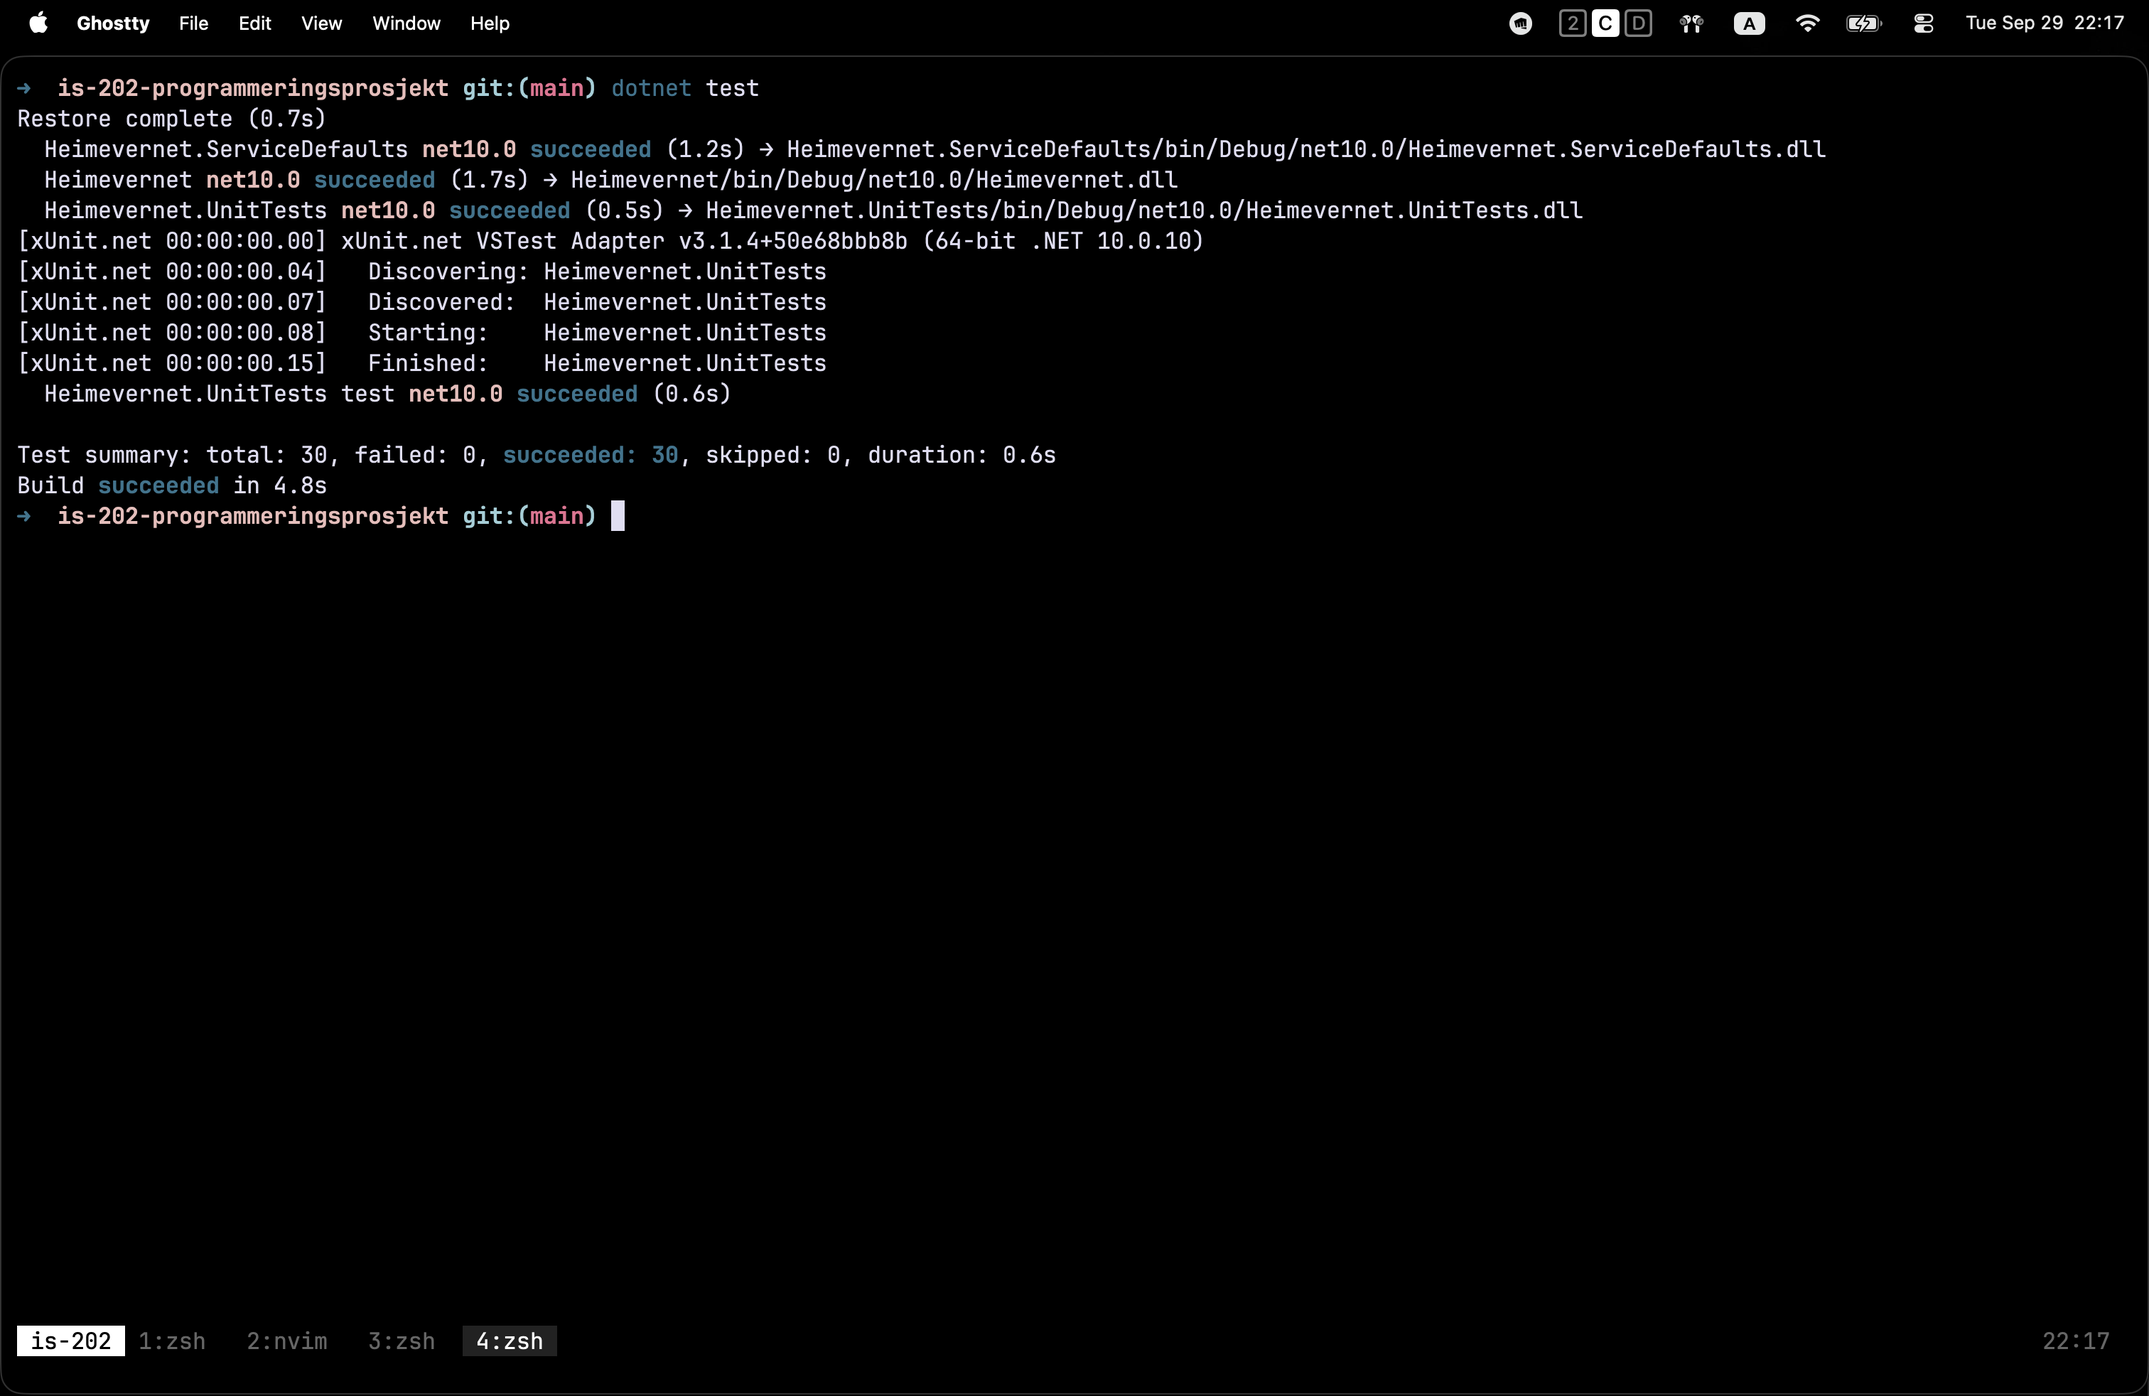
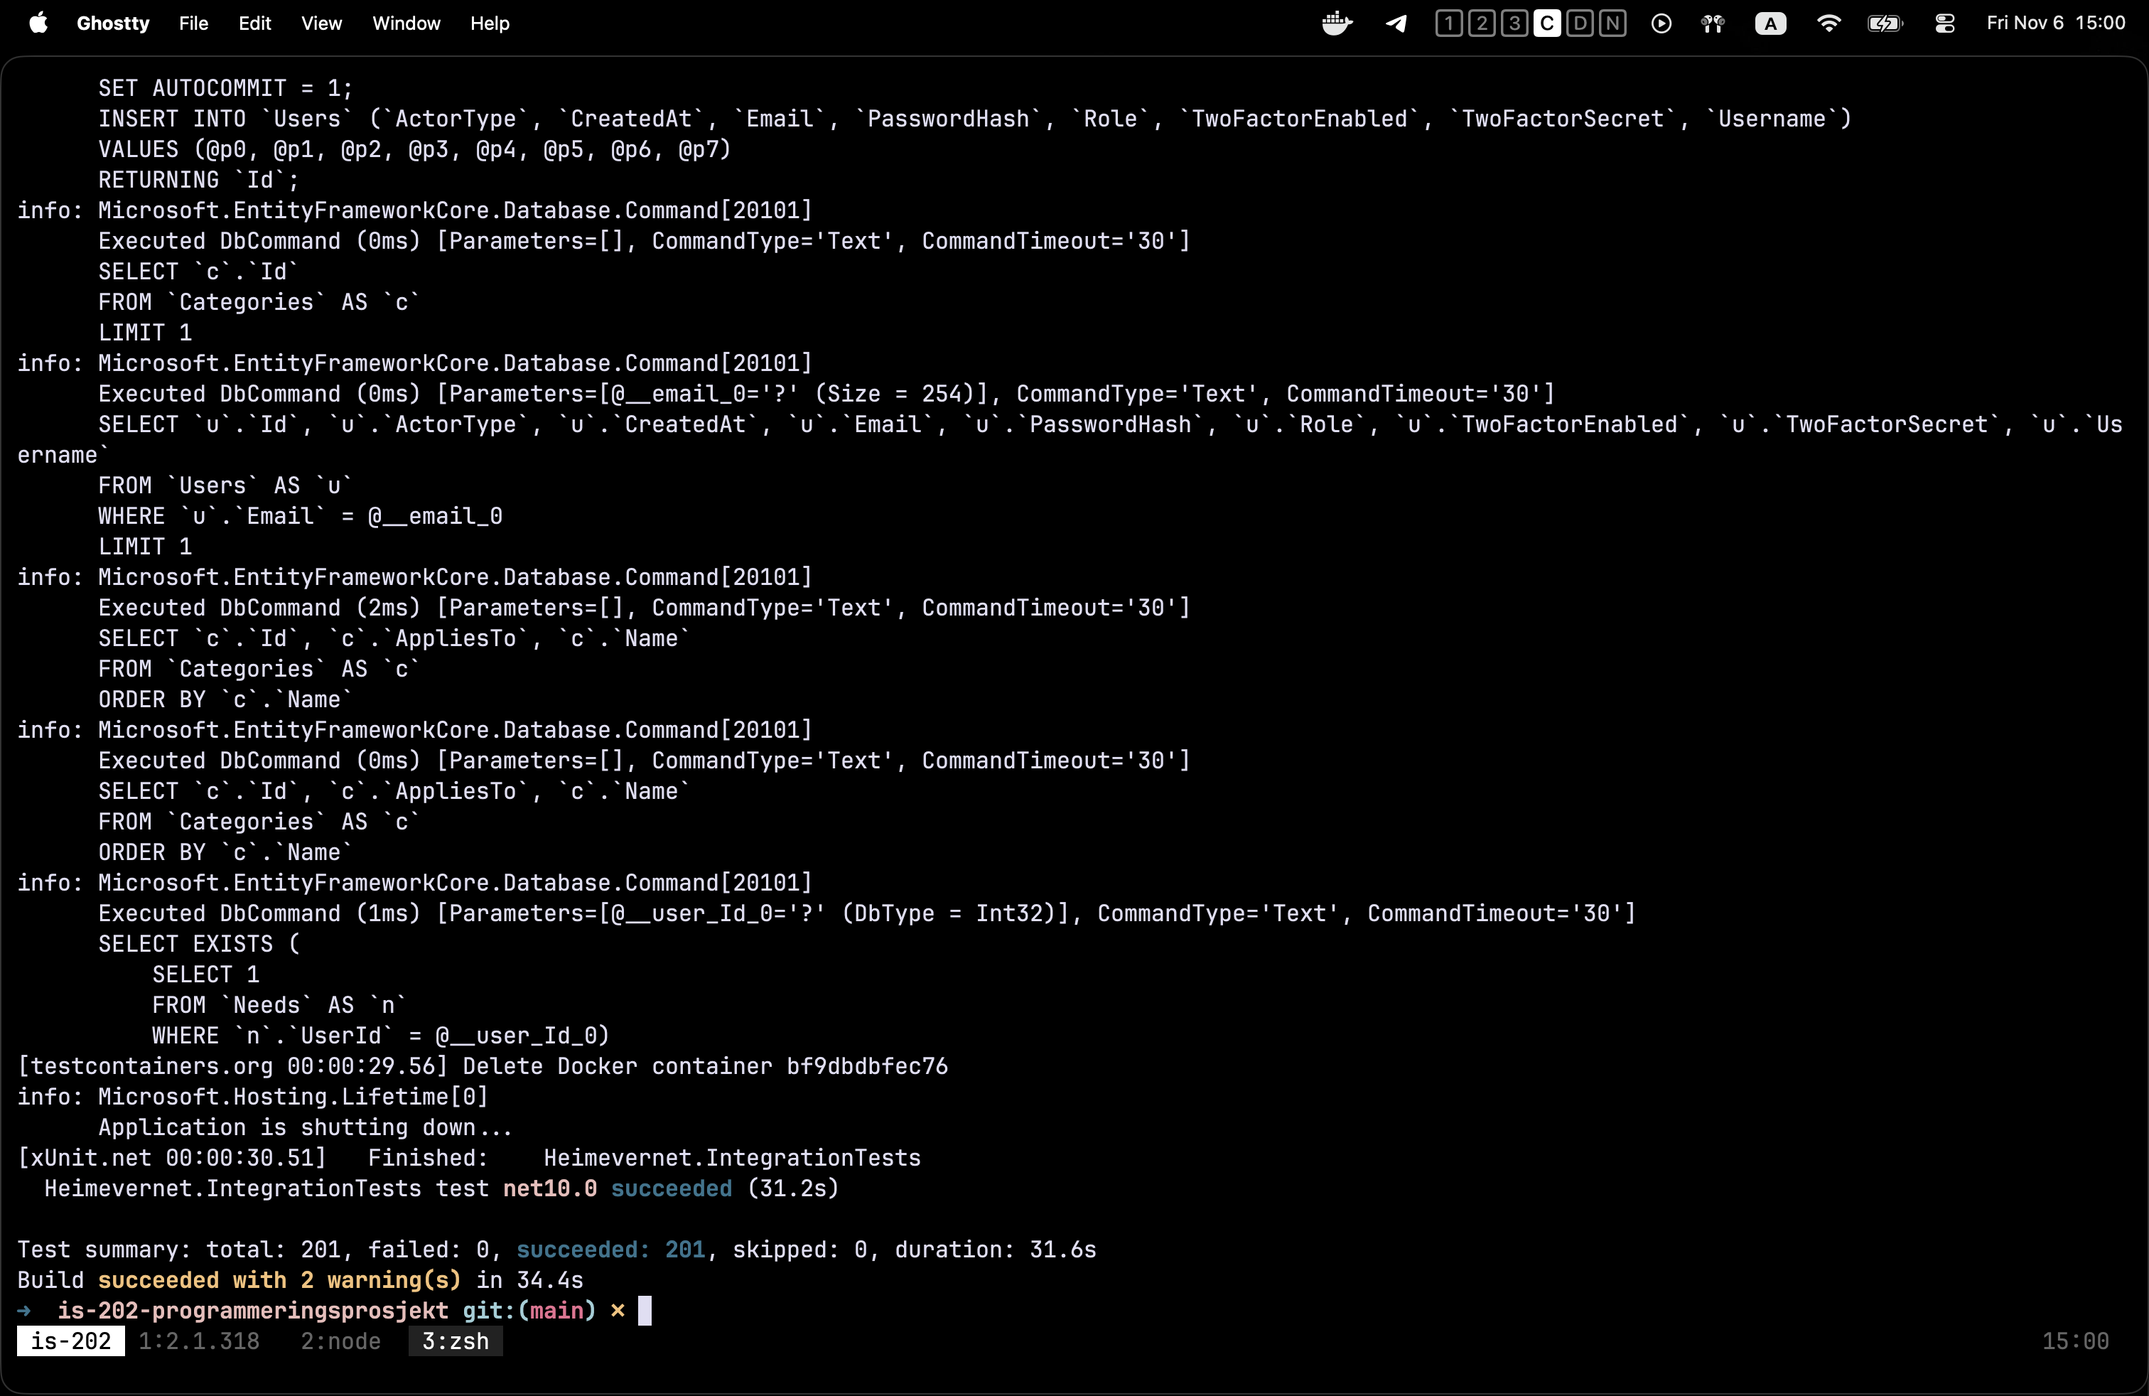
enhance(docs): update testing documentation to reflect current test coverage and integration test setup

diff --git a/docs/testing.md b/docs/testing.md
@@ -1,55 +1,92 @@
 # Testing
 
-The project uses automated unit tests to verify business logic. Integration tests have not been implemented yet, and the existing unit tests do not cover all application components or behaviours. In particular, controllers, database interactions, authentication, file storage and the browser interface are not fully covered by automated tests.
+The project has two automated test projects with 201 tests in total, and all of them pass.
 
-## Automated tests
+| Project                        | Tests | What it tests                                                    | Needs                                |
+| ------------------------------ | ----- | ---------------------------------------------------------------- | ------------------------------------ |
+| `Heimevernet.UnitTests`        | 87    | Services, mappers and the exporter, in isolation                 | Nothing                              |
+| `Heimevernet.IntegrationTests` | 114   | Full HTTP requests through controllers, services and a real database | Docker running and the storage secrets |
+
+## Unit tests
+
+Unit tests check business rules in isolation. They use **xUnit** and **Moq**: repositories, the unit of work and other services are mocked, while the real mappers are used inside service tests. A mapping change is therefore tested both directly and through the services that use it.
+
+| Test class                               | Checks                                                                                                                                                                                                                                     |
+| ---------------------------------------- | ------------------------------------------------------------------------------------------------------------------------------------------------------------------------------------------------------------------------------------------ |
+| `NeedServiceTests`, `ResourceServiceTests` | Create saves and commits, and a repository failure does not commit. Get returns mapped view models, including empty and not-found cases. Update and delete check the owner, reject protected-field changes while a match is pending, return a conflict on a concurrency conflict, and never change the owner, status or creation time. |
+| `AuthServiceTests`                       | Registration hashes the password, trims input and rejects an existing email. Login handles an unknown email, a wrong password, and accounts with and without two-factor. Two-factor setup returns a QR code and only enables 2FA after a valid code. Sign-in issues the expected claims. |
+| `ResourceExporterTests`                  | CSV starts with a UTF-8 BOM, follows the header order, formats dates, quotes special characters and neutralises formula prefixes (`=`, `+`, `-`, `@`, tab and carriage return) to prevent CSV injection. JSON exports only the agreed fields, uses ISO dates and keeps Norwegian letters readable. |
+| `NeedMapperTests`, `ResourceMapperTests` | Mapping from entity to view model and back, trimming, nullable fields and empty collections.                                                                                                                                                       |
+
+## Integration tests
+
+Integration tests send real HTTP requests to the application and check the response and the resulting database state. They show that controllers, authorisation, validation, services, EF Core and the database work together.
+
+### How they work
+
+- **`HeimevernetWebApplicationFactory`** starts the real application in memory with `WebApplicationFactory` in the `Testing` environment.
+- **Testcontainers** starts a fresh **MariaDB 11** container, the same engine as in production. The factory applies the EF Core migrations and seeds the reference data (categories) before the first test.
+- Each test class gets its own factory and database through `IClassFixture`. Inside a class, every test creates its own users with unique emails through **`TestDataFactory`**, so tests do not depend on each other.
+- **`AuthenticatedClientHelper`** logs a test user in and returns a client with the login cookie.
+- **`AntiforgeryHelper`** reads the anti-forgery token from a form and posts it back, just like a browser. Form posts therefore go through the same CSRF protection as in production.
+- File storage uses the separate test bucket `test_bucket_is202`, so tests never touch development or production files.
 
 ### What they cover
 
-| Test class                               | Checks                                                                                                                                                                                                        |
-| ---------------------------------------- | ------------------------------------------------------------------------------------------------------------------------------------------------------------------------------------------------------------- |
-| `NeedServiceTests`                       | Create saves the entity and commits. A repository failure does not commit. Values are trimmed before saving. Get all, summaries and get by ID return mapped view models, including empty and not-found cases. |
-| `ResourceServiceTests`                   | Corresponding service behaviours for resources.                                                                                                                                                               |
-| `NeedMapperTests`, `ResourceMapperTests` | Entity-to-view-model and reverse mapping, trimming, nullable fields, collections and empty collections.                                                                                                       |
+| Area          | Test classes                                                                                                     | Checks                                                                                                                                                                                                                                                                                           |
+| ------------- | ---------------------------------------------------------------------------------------------------------------- | ------------------------------------------------------------------------------------------------------------------------------------------------------------------------------------------------------------------------------------------------------------------------------------------------- |
+| Account       | `LoginTests`, `LogoutTests`, `RegistrationTests`, `TwoFactorAuthenticationTests`, `TwoFactorSetupTests`, `AccountPageTests` | Valid and invalid login with a generic error message, logout only through POST, registration without duplicates, the full two-factor login and setup flow, and protected pages redirecting anonymous users to login.                                                                              |
+| Needs         | `CreateNeedTests`, `EditNeedTests`, `DeleteNeedTests`                                                            | Creating with validation (title, category, quantity, latitude). Only the owner may edit or delete. Resource providers and anonymous users are refused. A need with a pending or assigned match cannot be deleted.                                                                                  |
+| Resources     | `CreateResourceTests`, `EditResourceTests`, `DeleteResourceTests`                                                | Creating with validation, including `AvailableTo` before `AvailableFrom`. Only the owner may edit or delete, and a resource with a match cannot be deleted.                                                                                                                                         |
+| Export        | `ExportResourceTests`                                                                                            | CSV and JSON export of available resources, with and without a region filter. Only the allowed role can export, and the print-by-region page keeps the selected region in its export links.                                                                                                      |
+| Matching      | `MatchProposalTests`, `MatchAcceptanceTests`, `MatchRejectionTests`                                              | Proposing (no duplicates, valid quantity, only the need owner, not to busy resources). Accepting and rejecting (only the resource owner, only proposals under review, quantity limits on both sides). When a need or resource becomes fully allocated, other pending proposals are cancelled. After a rejection, the need's status falls back correctly. |
+| Map           | `MapControllerTests`                                                                                             | Public actors see needs and available resources, while providers see needs and their own resources. Resolved needs and markers outside the bounds are excluded, invalid bounds return `400`, and the 500-marker cap sets `Truncated`.                                                              |
 
-The tests use xUnit and Moq. Repositories and the unit of work are mocked, while the real mappers are used in service tests. This allows mapping changes to be tested directly and through the services that use them.
+## What is not covered yet
 
-### Current limitations
+| Area                                      | Status                                                                                                                    |
+| ----------------------------------------- | ------------------------------------------------------------------------------------------------------------------------- |
+| `MatchService` unit tests                 | `MatchServiceTests` is an empty placeholder. Matching is covered end to end by 22 integration tests.                      |
+| `GeoMath` (distance and bounding box)     | No tests. It is pure logic and a good candidate for unit tests.                                                           |
+| Search                                    | `SearchController` and `SearchRepository` have no tests.                                                                  |
+| Attachments                               | Upload, validation and storage are only mocked inside other tests, never tested directly.                                 |
+| Audit logging                             | No tests check that actions write audit entries.                                                                          |
+| Nearby resources and suggestions on a need | No tests.                                                                                                                 |
+| Razor views and the map JavaScript        | No automated browser tests. These are checked by hand.                                                                    |
 
-Integration tests have not been implemented. The existing unit tests do not cover all business logic or application components.
+## Run the tests
 
-Areas without sufficient automated test coverage include:
-
-- Controllers and HTTP request handling.
-- Database repositories and actual database interactions.
-- Authentication and two-factor authentication.
-- Attachment uploads, validation and storage operations.
-- Map services and client-side map behaviour.
-- Razor views, forms and responsive layouts.
-- Interactions between application components and external services.
-
-Unit tests verify isolated behaviour, often using mocks. They do not establish that the complete application works correctly end to end. Integration tests are needed to verify interactions between components, including database persistence and storage operations.
-
-## Run tests
-
-Run the test suite from the solution directory:
+Run everything from the repository folder:
 
 ```bash
 dotnet test Heimevernet.slnx
 ```
 
+Or run one project at a time:
+
+```bash
+dotnet test Heimevernet.UnitTests          # no requirements, under a second
+dotnet test Heimevernet.IntegrationTests   # needs Docker and the storage secrets, about 20 seconds
+```
+
+The integration tests need **Docker Desktop running**, so Testcontainers can start MariaDB, and the **storage secrets** from [Getting started](./getting-started.md#_2-set-the-storage-secrets), because the application validates its storage settings at start-up. The first run also downloads the MariaDB image.
+
 ## Continuous integration
 
-GitHub Actions runs the CI workflow on every push and pull request targeting `main`. The workflow runs on `ubuntu-latest` and uses .NET 10.
+GitHub Actions runs the CI workflow on every push and pull request targeting `main`. It has two jobs that run in parallel on `ubuntu-latest`.
 
-The pipeline:
+**`ci`: build and all tests**
 
-1. Checks out the repository.
-2. Installs the .NET 10 SDK.
-3. Restores dependencies for `Heimevernet.slnx`.
-4. Builds the solution in Release configuration.
-5. Runs `Heimevernet.UnitTests` without rebuilding.
-6. Publishes the TRX test results as a GitHub Actions check, even if an earlier step fails.
+1. Checks out the repository and installs the .NET 10 SDK.
+2. Restores and builds `Heimevernet.slnx` in Release configuration.
+3. Runs **both** test projects with `dotnet test Heimevernet.slnx`. The integration tests work in CI because the GitHub runners have Docker for Testcontainers, and the storage settings come from repository secrets as environment variables (`Storage__Endpoint` and so on, where `__` stands for `:` in .NET configuration).
+4. Publishes the TRX results of both projects as a GitHub Actions check, even if an earlier step fails.
+
+**`docs`: documentation build**
+
+Installs Node.js 22, runs `npm ci` and `npm run docs:build`, so a broken link or invalid page fails the pull request before it reaches GitHub Pages.
+
+The storage secrets (`STORAGE_ENDPOINT`, `STORAGE_REGION`, `STORAGE_ACCESS_KEY_ID`, `STORAGE_SECRET_ACCESS_KEY`, `STORAGE_BUCKET`, `STORAGE_PUBLIC_BASE_URL`) are set under the repository's **Settings → Secrets and variables → Actions**. GitHub does not pass secrets to pull requests from forks, so the integration tests only run for branches in this repository.
 
 The workflow is defined in `.github/workflows/ci.yml`:
 
@@ -84,22 +121,46 @@ jobs:
         run: dotnet build Heimevernet.slnx --no-restore --configuration Release
 
       - name: Test
+        env:
+          Storage__Endpoint: ${{ secrets.STORAGE_ENDPOINT }}
+          Storage__Region: ${{ secrets.STORAGE_REGION }}
+          Storage__AccessKeyId: ${{ secrets.STORAGE_ACCESS_KEY_ID }}
+          Storage__SecretAccessKey: ${{ secrets.STORAGE_SECRET_ACCESS_KEY }}
+          Storage__Bucket: ${{ secrets.STORAGE_BUCKET }}
+          Storage__PublicBaseUrl: ${{ secrets.STORAGE_PUBLIC_BASE_URL }}
         run: >
-          dotnet test Heimevernet.UnitTests/Heimevernet.UnitTests.csproj
+          dotnet test Heimevernet.slnx
           --no-build
           --configuration Release
           --logger "trx;LogFileName=test-results.trx"
 
-      - name: Publish test results
+      - name: Publish Test Results
         uses: dorny/test-reporter@v1
         if: always()
         with:
-          name: Test Results
+          name: Test Results (Unit & Integration)
           path: "**/test-results.trx"
           reporter: dotnet-trx
-```
 
-The test step generates a TRX report, and `dorny/test-reporter` publishes the results. The `if: always()` condition allows the reporting step to run even when a previous step fails, provided a report exists.
+  docs:
+    runs-on: ubuntu-latest
+
+    steps:
+      - name: Checkout
+        uses: actions/checkout@v4
+
+      - name: Setup Node.js
+        uses: actions/setup-node@v4
+        with:
+          node-version: "22"
+          cache: npm
+
+      - name: Install dependencies
+        run: npm ci
+
+      - name: Build documentation
+        run: npm run docs:build
+```
 
 ## Latest test result
 
